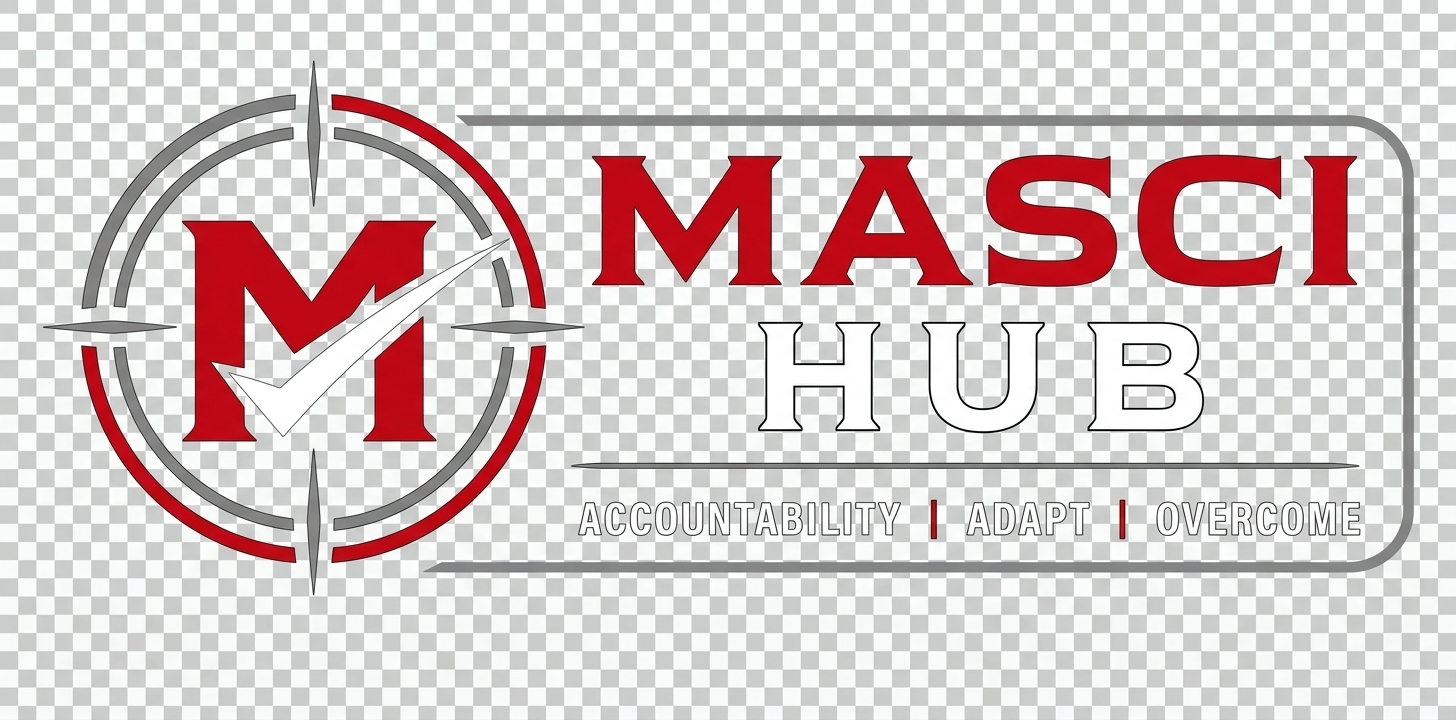
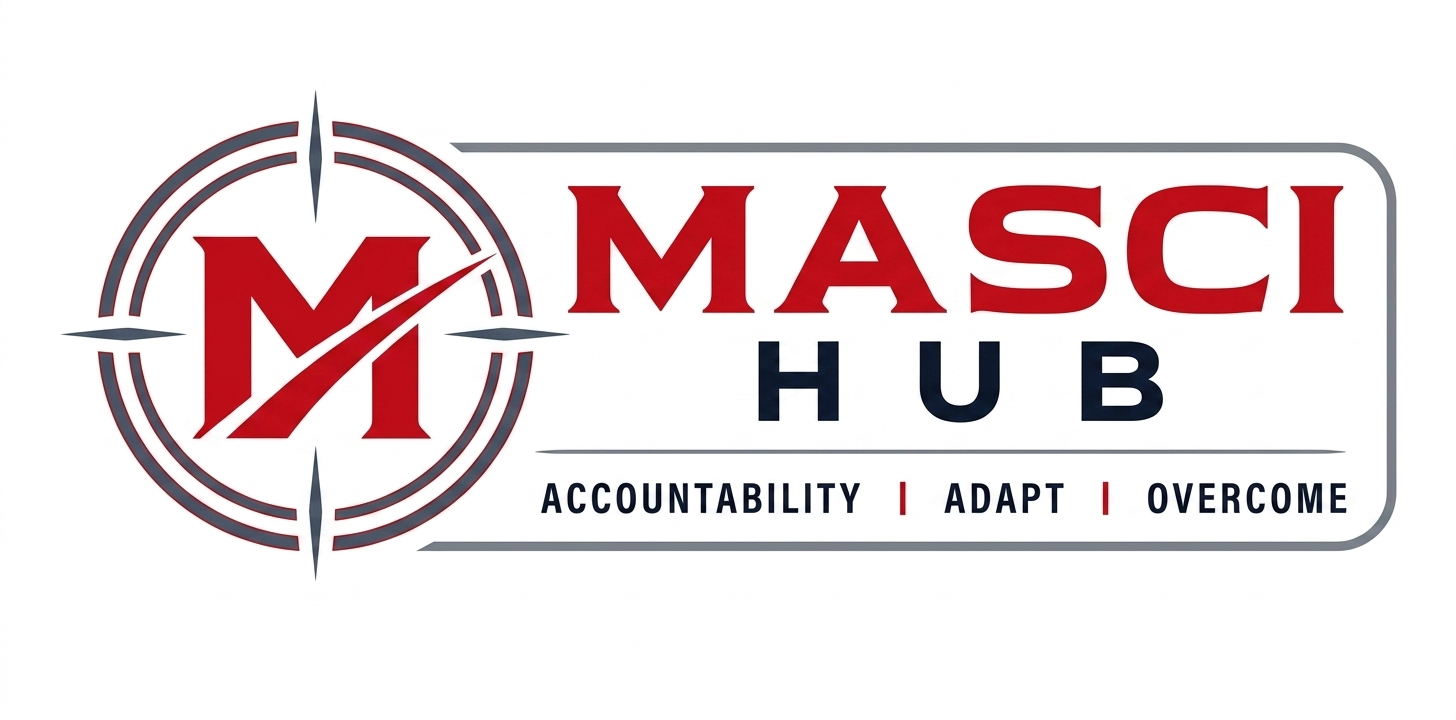
auto-commit for e9c5dc5d-bfa2-4f08-871d-ac79306ff74e

diff --git a/backend/scripts/fix_onlight_lockup.py b/backend/scripts/fix_onlight_lockup.py
@@ -1,0 +1,99 @@
+"""Fix the `masci-full-lockup-onlight.png` so it renders properly on
+white surfaces (cheat sheet, posters, light cards).
+
+Issues from the prior pass:
+  1. Background came back transparent (checker pattern visible on white card)
+  2. "HUB" text was white on a white background (invisible)
+  3. Icon shows M with a clean checkmark, not the user's M-with-swoosh
+
+This script asks the model for an explicit WHITE solid background and
+DARK NAVY filled "HUB" so it reads on light surfaces.  It also feeds the
+user's M icon as the primary reference so the curved-swoosh shape is
+preserved, not turned into a sharp checkmark.
+"""
+import asyncio
+import base64
+import os
+import sys
+import uuid
+from pathlib import Path
+
+from dotenv import load_dotenv
+from emergentintegrations.llm.chat import LlmChat, UserMessage, ImageContent
+
+load_dotenv()
+
+PUBLIC_DIR = Path("/app/frontend/public")
+M_ICON = Path("/tmp/assets/new_m_icon.png")
+ONBLACK = PUBLIC_DIR / "masci-full-lockup-onblack.png"  # composition reference
+OUT = PUBLIC_DIR / "masci-full-lockup-onlight.png"
+
+PROMPT = (
+    "I am giving you TWO reference images.\n\n"
+    "Image 1 = the MASCI 'M' icon. CRITICAL: study it carefully. The white "
+    "shape inside the red M is a SMOOTH CURVED SWOOSH ARC, not a "
+    "checkmark. The swoosh starts wide at the bottom-left of the M, "
+    "curves upward and to the right, and tapers to a sharp point at the "
+    "upper right. It is one continuous curved line. DO NOT draw it as a "
+    "checkmark with two straight legs meeting at an angle. Replicate the "
+    "smooth curved arc exactly.\n\n"
+    "Image 2 = the existing MASCI HUB lockup on black. Use it ONLY for "
+    "composition reference (icon position on left, wordmark on right, "
+    "divider line, tagline row at bottom, rounded rectangle outline frame).\n\n"
+    "Build a NEW lockup designed for WHITE backgrounds:\n"
+    "• Solid pure WHITE background fill (#FFFFFF). NOT transparent. NOT "
+    "  silver-gradient. Pure flat white inside the rounded rectangle frame.\n"
+    "• Left side: target/crosshair ring (dark grey #475569 outer ring, "
+    "  thin red inner ring) with the M-icon from Image 1 inside. Keep the "
+    "  M as RED with the WHITE CURVED SWOOSH from Image 1.\n"
+    "• Right side wordmark, two lines:\n"
+    "    Line 1: 'MASCI' — bold red serif (same red as the M), large.\n"
+    "    Line 2: 'HUB'   — bold dark navy #0f172a (slate-900). NOT white! "
+    "                       NOT light grey! It must read clearly on white. "
+    "                       Same font family as MASCI, slightly smaller, "
+    "                       open letter spacing.\n"
+    "• Single thin medium-grey horizontal divider beneath the wordmark.\n"
+    "• Single tagline row beneath the divider:\n"
+    "    'ACCOUNTABILITY | ADAPT | OVERCOME'\n"
+    "  in DARK NAVY #0f172a all-caps, separated by thin red vertical bars.\n"
+    "• A thin rounded-rectangle outline frame around the whole lockup, in "
+    "  medium grey.\n"
+    "• ABSOLUTELY NO 'NO SHORTCUTS' or 'NO EXCEPTIONS' or 'DISCIPLINE' or "
+    "  'EXECUTION' text anywhere. Only the single ACCOUNTABILITY | ADAPT | "
+    "  OVERCOME tagline.\n"
+    "• Output a wide PNG roughly 2000x1000.\n"
+    "• Spell-check the output: it must literally say 'MASCI HUB' and "
+    "  'ACCOUNTABILITY | ADAPT | OVERCOME'."
+)
+
+
+async def main():
+    api_key = os.getenv("EMERGENT_LLM_KEY")
+    if not api_key:
+        print("ERROR: EMERGENT_LLM_KEY missing", file=sys.stderr); sys.exit(1)
+    for p in (M_ICON, ONBLACK):
+        if not p.exists():
+            print(f"missing {p}", file=sys.stderr); sys.exit(1)
+
+    chat = LlmChat(
+        api_key=api_key, session_id=f"onlight-{uuid.uuid4()}",
+        system_message="You are a precise brand designer. Follow specifications exactly.",
+    )
+    chat.with_model("gemini", "gemini-3.1-flash-image-preview").with_params(modalities=["image", "text"])
+
+    refs = [
+        ImageContent(base64.b64encode(M_ICON.read_bytes()).decode("utf-8")),
+        ImageContent(base64.b64encode(ONBLACK.read_bytes()).decode("utf-8")),
+    ]
+    text, images = await chat.send_message_multimodal_response(
+        UserMessage(text=PROMPT, file_contents=refs),
+    )
+    print(f"text: {(text or '').strip()[:120]}")
+    if not images:
+        print("no image returned", file=sys.stderr); sys.exit(1)
+    OUT.write_bytes(base64.b64decode(images[0]["data"]))
+    print(f"saved {OUT}")
+
+
+if __name__ == "__main__":
+    asyncio.run(main())
